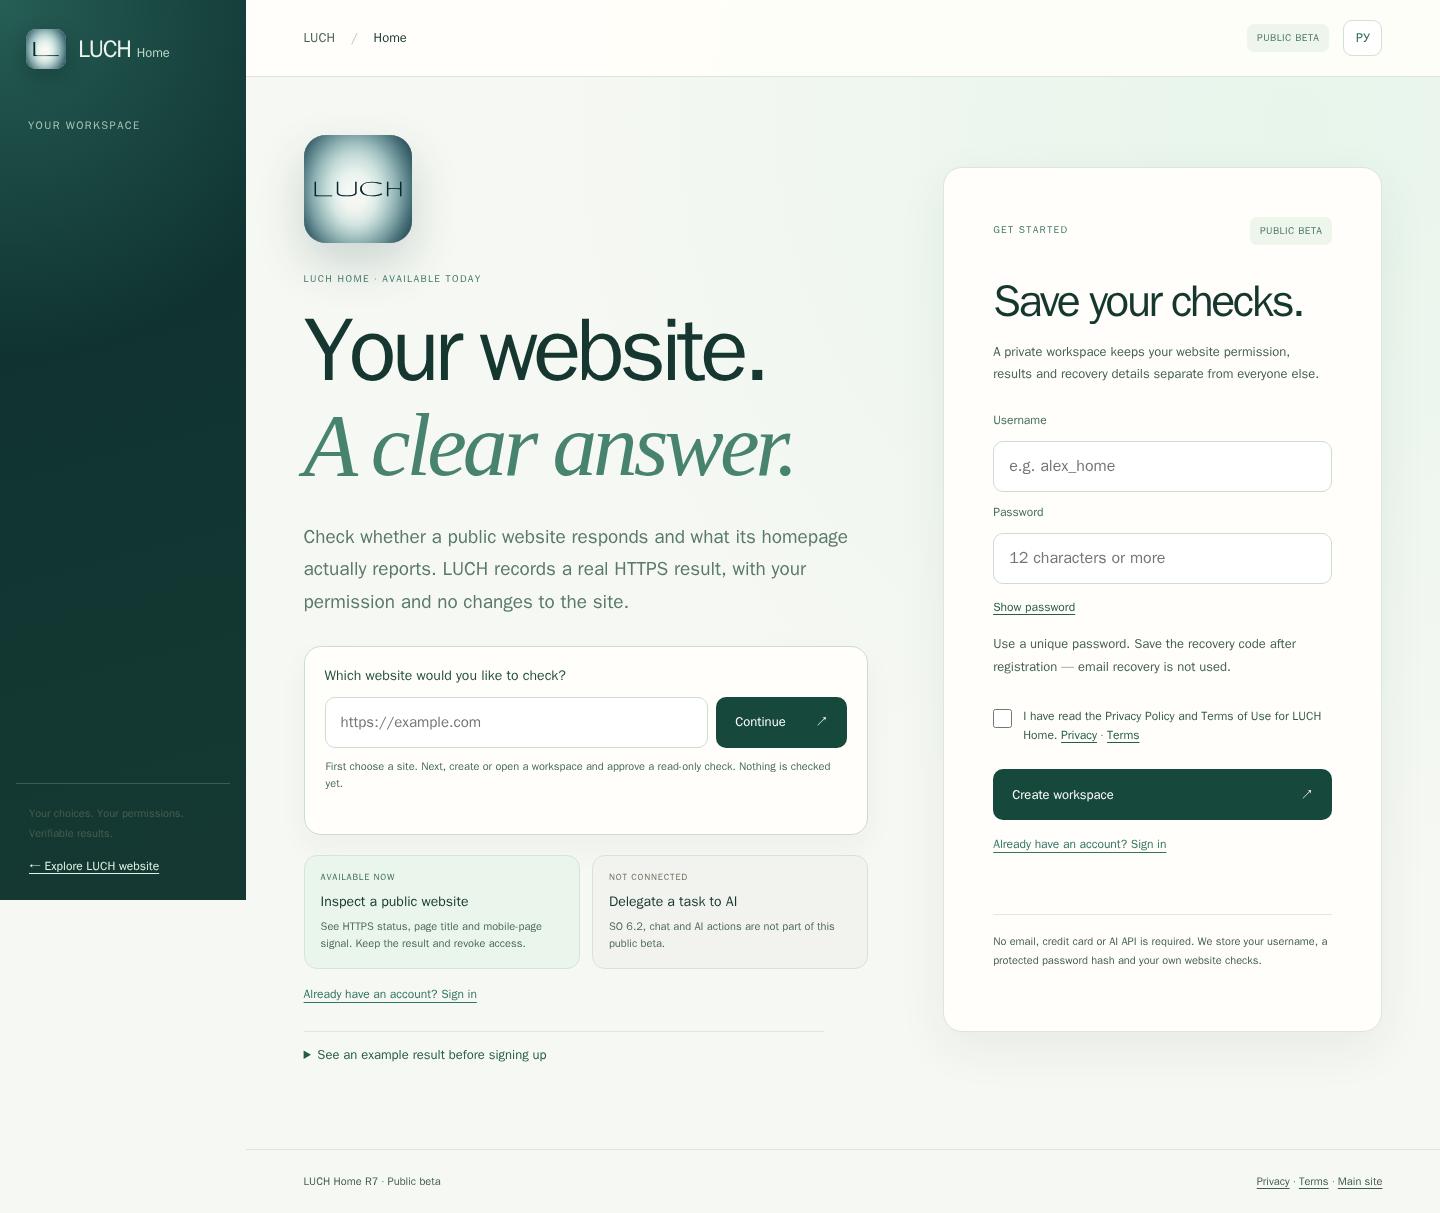
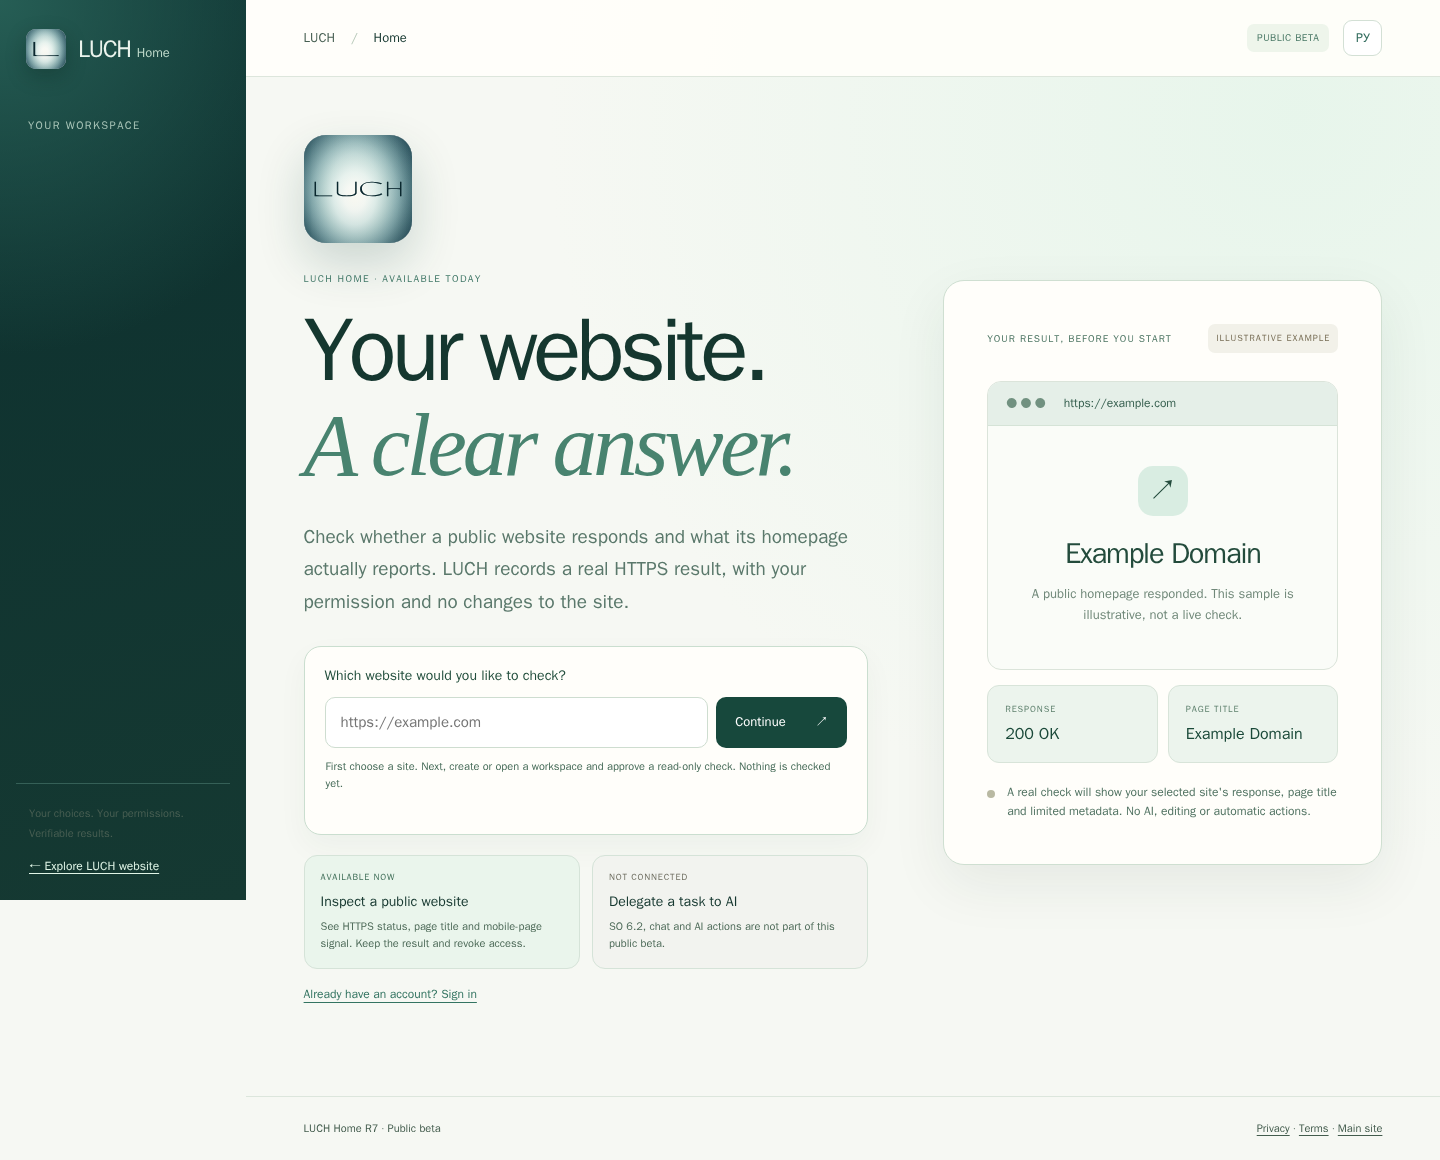
P029 HEA R8.1 · replace signup-centric hero with honest example result

diff --git a/home/frontend/index.html b/home/frontend/index.html
@@ -64,18 +64,20 @@
             <div class="task-upcoming"><span class="task-status" data-i18n="taskLater">NOT CONNECTED</span><strong data-i18n="taskAiTitle">Delegate a task to AI</strong><p data-i18n="taskAiDesc">SO 6.2, chat and AI actions are not part of this public beta.</p></div>
           </div>
           <div class="hero-login"><button type="button" class="text-switch" data-login-shortcut data-i18n="existingAccount">Already have an account? Sign in</button></div>
-          <details class="sample-result">
-            <summary data-i18n="sampleHeading">See an example result before signing up</summary>
-            <div class="sample-result-body">
-              <p class="sample-caption" data-i18n="sampleDisclosure">Illustration only: this example is not a live result from your account.</p>
-              <dl><dt data-i18n="sampleDomain">Example site</dt><dd>example.com</dd>
-                  <dt>HTTPS</dt><dd>200 OK</dd>
-                  <dt>HTML title</dt><dd>Example Domain</dd></dl>
-              <p data-i18n="sampleLimits">LUCH checks public homepage metadata; it does not change the website.</p>
-            </div>
-          </details>
         </div>
-        <div class="auth-card" id="auth-card">
+        <div class="sample-hero-card" id="pre-auth-panel" aria-label="Illustrative website check result">
+          <div class="sample-hero-top"><span data-i18n="samplePreviewLabel">YOUR RESULT, BEFORE YOU START</span><span class="sample-example-pill" data-i18n="sampleExampleTag">ILLUSTRATIVE EXAMPLE</span></div>
+          <div class="sample-browser-frame">
+            <div class="sample-browser-chrome"><span aria-hidden="true">● ● ●</span><strong>https://example.com</strong></div>
+            <div class="sample-browser-content"><div class="sample-browser-symbol" aria-hidden="true">↗</div><strong>Example Domain</strong><p data-i18n="samplePreviewCaption">A public homepage responded. This sample is illustrative, not a live check.</p></div>
+          </div>
+          <div class="sample-metric-row">
+            <div><span data-i18n="sampleMetric1">RESPONSE</span><strong>200 OK</strong></div>
+            <div><span data-i18n="sampleMetric2">PAGE TITLE</span><strong>Example Domain</strong></div>
+          </div>
+          <div class="sample-hero-bottom"><span class="status-dot" aria-hidden="true"></span><p data-i18n="sampleBoundaries">A real check will show your selected site's response, page title and limited metadata. No AI, editing or automatic actions.</p></div>
+        </div>
+        <div class="auth-card" id="auth-card" hidden>
           <div class="card-intro"><span class="eyebrow" data-i18n="getStarted">GET STARTED</span><span class="tiny-badge" data-i18n="publicBeta">PUBLIC BETA</span></div>
           <div id="register-pane">
             <h2 data-i18n="createTitle">Save your checks.</h2>

diff --git a/home/frontend/app.css b/home/frontend/app.css
@@ -312,3 +312,31 @@ main{flex:1;max-width:1510px;width:100%;margin:0 auto;padding:clamp(25px,4vw,61p
  .guest-intent-row .button{width:100%}
  .task-availability{grid-template-columns:1fr}
 }
+
+/* R8 human-experience correction: use the desktop right-hand space for an honest
+   result example, reveal authentication only after a user's actual task choice. */
+.sample-hero-card{padding:clamp(25px,3vw,43px);background:#fffefa;border:1px solid #cfdfd1;border-radius:21px;box-shadow:0 20px 55px #18392d13;align-self:center}
+.sample-hero-top{display:flex;justify-content:space-between;align-items:center;gap:12px;flex-wrap:wrap;font-size:10px;letter-spacing:.1em;font-weight:820;color:#4e7664;margin-bottom:28px}
+.sample-example-pill{color:#786e56;background:#f2f1e9;padding:8px;border-radius:7px;font-size:9px}
+.sample-browser-frame{border:1px solid #dbe4da;border-radius:14px;overflow:hidden;background:#fafcf8}
+.sample-browser-chrome{background:#e5efe8;display:flex;gap:18px;padding:13px 18px;color:#719180;font-size:11px;align-items:center;border-bottom:1px solid #d5e3d7}
+.sample-browser-chrome strong{color:#365f4f;font-size:12px;font-weight:680}
+.sample-browser-content{text-align:center;padding:40px 18px 43px;color:#234b3c}
+.sample-browser-symbol{height:50px;width:50px;display:grid;place-items:center;border-radius:15px;background:#d9ede2;font-size:29px;margin:0 auto 18px}
+.sample-browser-content strong{font-size:29px;letter-spacing:-.04em;font-weight:680}
+.sample-browser-content p{font-size:13px;color:#708879;line-height:1.6;margin:10px auto 0;max-width:280px}
+.sample-metric-row{display:grid;grid-template-columns:1fr 1fr;gap:10px;margin:15px 0 20px}
+.sample-metric-row>div{border:1px solid #d8e4d9;border-radius:12px;padding:17px;background:#ecf4ed}
+.sample-metric-row span{display:block;color:#5f816e;font-size:9px;letter-spacing:.1em;font-weight:800;margin-bottom:8px}
+.sample-metric-row strong{font-size:16px;color:#1a4939}
+.sample-hero-bottom{display:flex;gap:12px;align-items:flex-start;color:#507261;font-size:12px;line-height:1.6}
+.sample-hero-bottom p{margin:0}
+@media(max-width:760px){
+ .sample-hero-card{padding:19px 18px;border-radius:16px}
+ .sample-hero-top{margin-bottom:14px}
+ .sample-browser-content{padding:19px 12px 23px}
+ .sample-browser-content strong{font-size:21px}
+ .sample-browser-symbol{display:none}
+ .sample-metric-row{margin:10px 0}
+ .sample-metric-row>div{padding:11px}
+}
